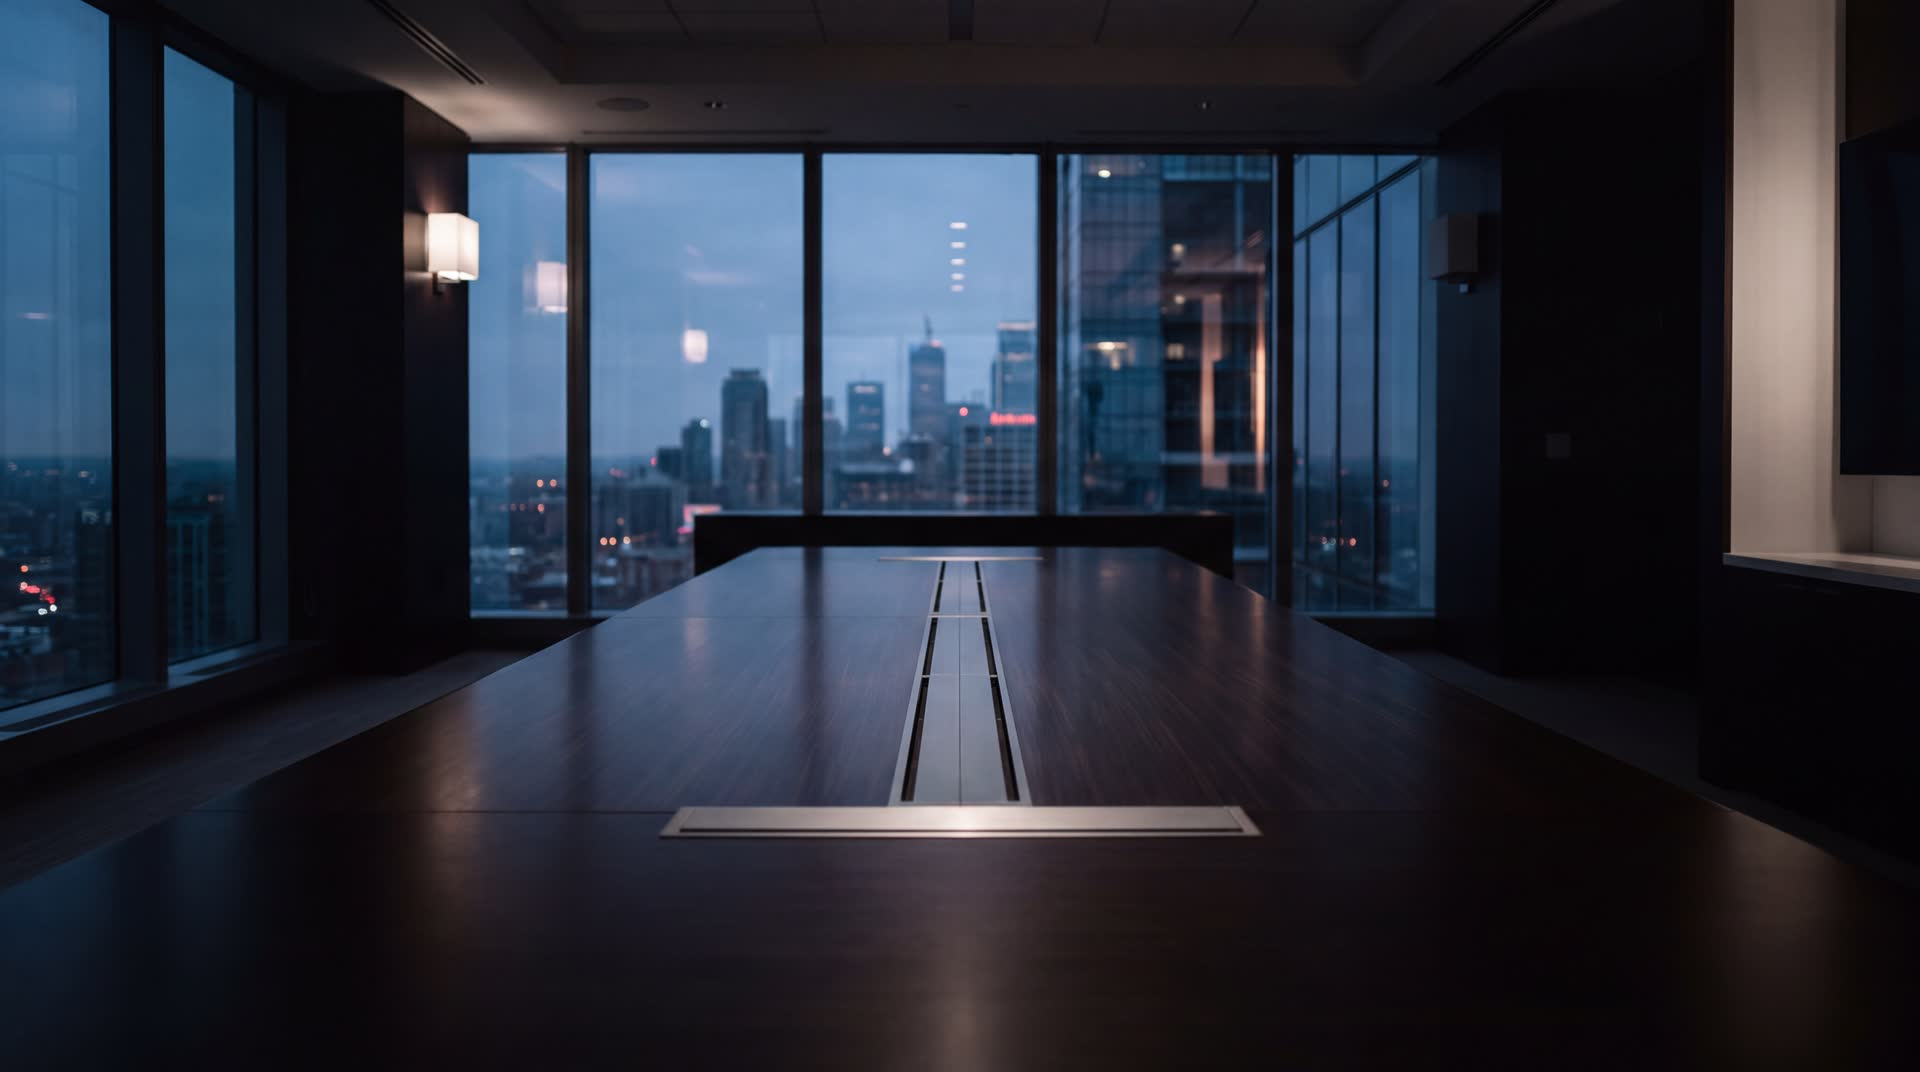
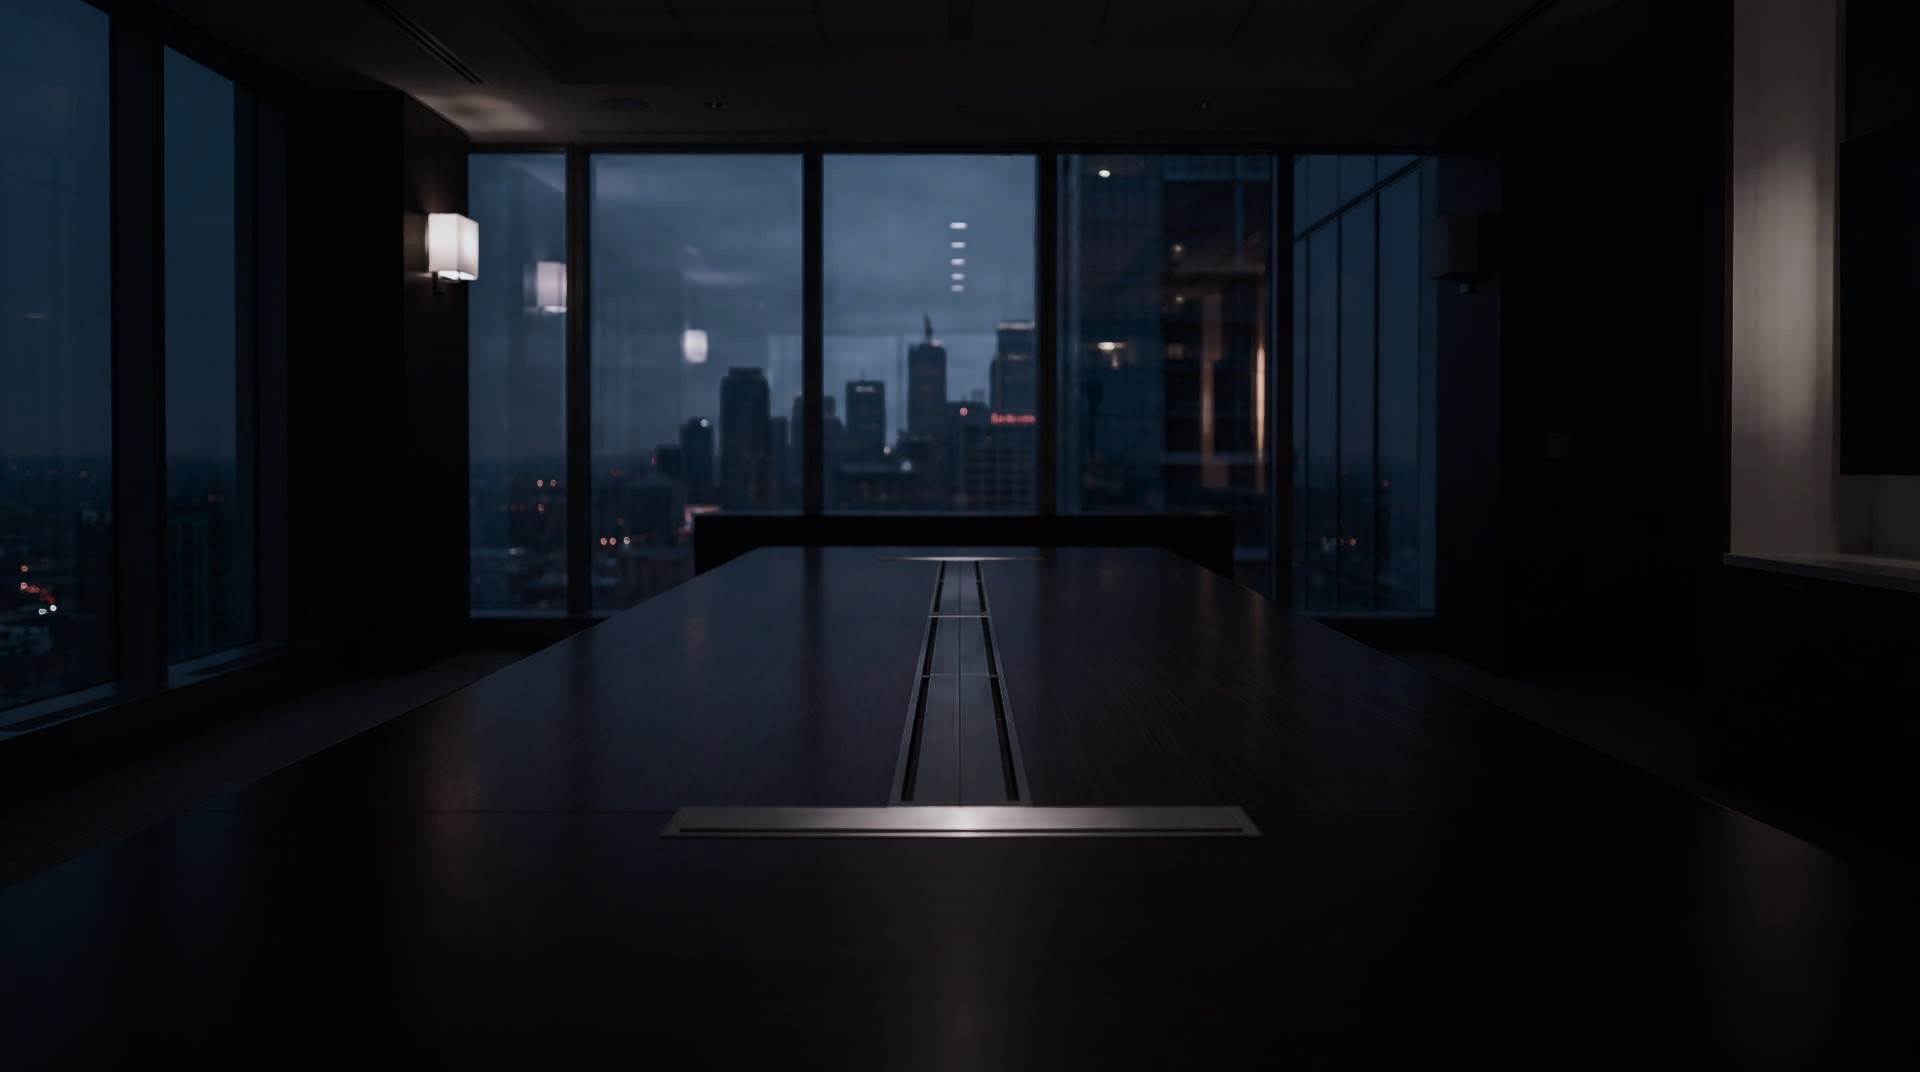
Regrade hero and approach plates to crush grey bloom.
Crush mid-grey sky wash toward true black, keep platinum rim light on the towers, and tighten the hero overlay so type sits on midnight rather than haze.

diff --git a/css/styles.css b/css/styles.css
@@ -308,14 +308,15 @@ p { margin: 0; }
   object-position: 18% 72%;
   transform: scale(1.12);
   will-change: transform;
-  filter: grayscale(0.1) contrast(1.34) brightness(0.88) saturate(0.56);
+  filter: grayscale(0.06) contrast(1.16) brightness(0.94) saturate(0.58);
 }
 .hero-bg::after {
   content: "";
   position: absolute; inset: 0;
   background:
-    linear-gradient(90deg, rgba(3,3,4,0.82) 0%, rgba(3,3,4,0.48) 28%, rgba(3,3,4,0.14) 54%, transparent 78%),
-    linear-gradient(180deg, rgba(7,8,11,0.32) 0%, transparent 26%, rgba(7,8,11,0.16) 66%, rgba(7,8,11,0.92) 100%);
+    radial-gradient(ellipse 62% 52% at 54% 38%, rgba(3,3,4,0.42), transparent 72%),
+    linear-gradient(90deg, rgba(3,3,4,0.86) 0%, rgba(3,3,4,0.52) 26%, rgba(3,3,4,0.16) 50%, transparent 74%),
+    linear-gradient(180deg, rgba(7,8,11,0.38) 0%, transparent 26%, rgba(7,8,11,0.18) 64%, rgba(7,8,11,0.94) 100%);
 }
 .hero-content {
   position: relative;
@@ -850,7 +851,7 @@ p { margin: 0; }
 }
 .approach-bg img {
   width: 100%; height: 100%; object-fit: cover;
-  filter: grayscale(0.28) contrast(1.22) brightness(0.42) saturate(0.45);
+  filter: grayscale(0.2) contrast(1.12) brightness(0.55) saturate(0.5);
 }
 .approach-bg::after {
   content: "";
